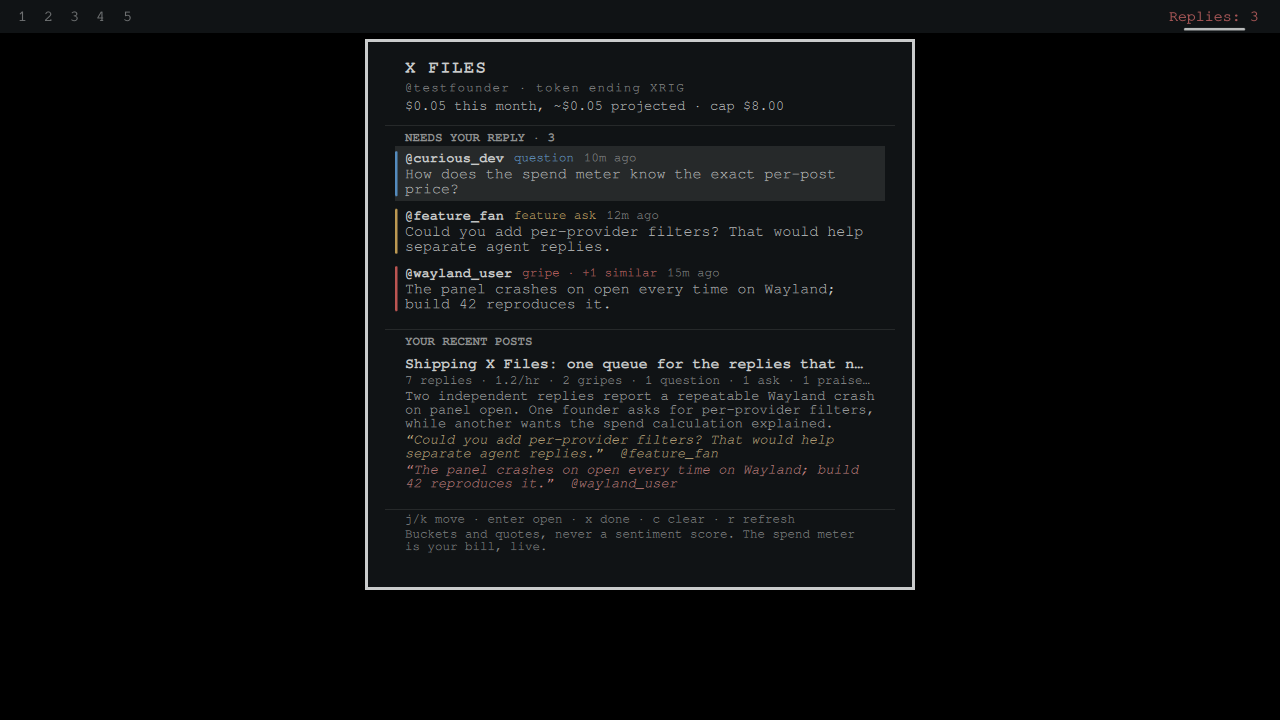
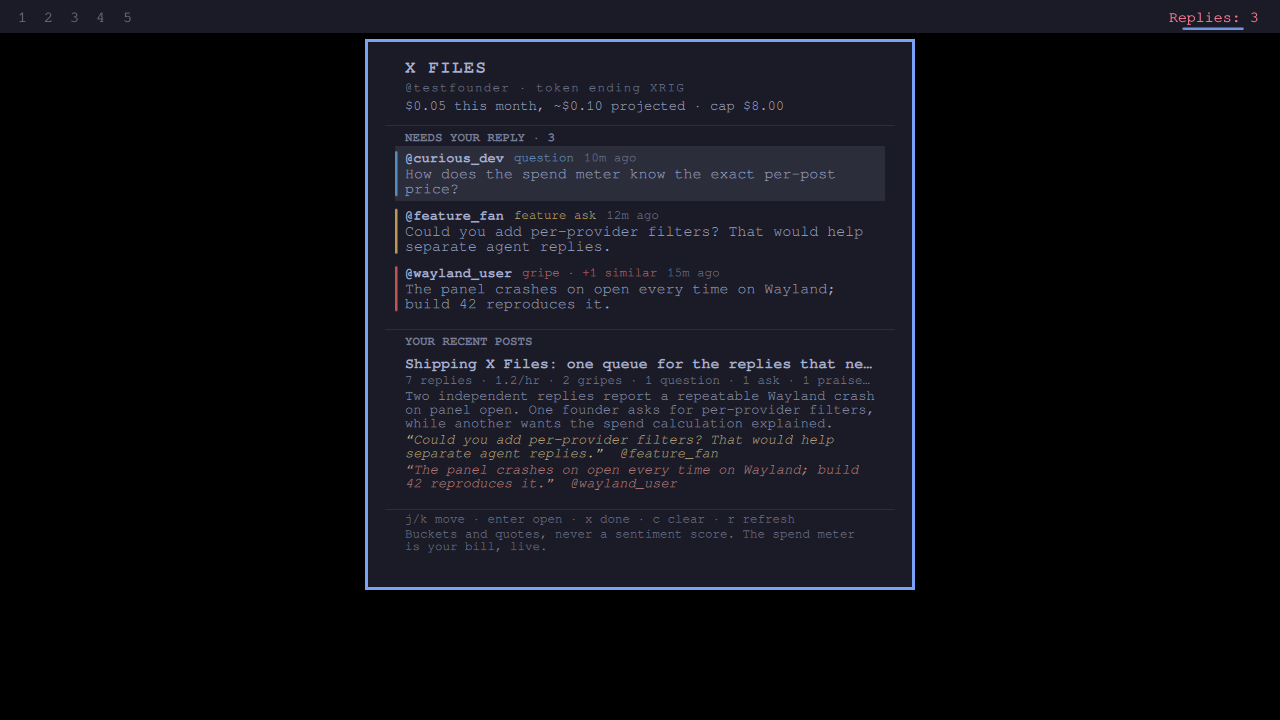
fix(theme): qualify the palette as Commons.Color for Qt 6.12; fold in Dependabot (#15)
* fix(theme): qualify the palette as Commons.Color for Qt 6.12; fold in Dependabot

Omarchy's shell contract (omacom/omarchy docs/omarchy-shell.md, Theme tokens)
now requires plugin QML to import qs.Commons with an alias and use
Commons.Color, because Qt 6.12 introduces its own Color type: "Existing
third-party plugins that use bare Color must make the same change." Arch now
ships Qt 6.12.0. Panel.qml used bare Color in 25 fallback colours; they now use Commons.Color. BarWidget.qml and Service.qml had none. A contract test fails on any bare `Color.` in the
shipped QML and requires the alias wherever Commons.Color appears.

scripts/rig-render.sh now seeds the current-theme state a real Omarchy
install has (current/theme, theme.name, background, the entries
omarchy-theme-set writes), copied from crew-chief ba0fa5b. On the upgraded
rig (Omarchy 74de104) first-party image-picker and lock read that state and
log QML warnings without it, which the render correctly refuses to certify.
Chose seeding real install state over narrowing the warning filter, because
a plugin can cause a warning inside a first-party component it uses.

Folds in the open Dependabot bumps, which failed CI only on the audit-harness
hash pin: actions/setup-node 7.0.0 -> 7.1.0 (#12); jeremylongshore/minimax-code-review to cfb2c72 (#13). The MiniMax target cfb2c72 is identical to the fork's main
per the compare API. Harness re-pinned after verify listed only
[…]

diff --git a/Panel.qml b/Panel.qml
@@ -2,6 +2,9 @@ import QtQuick
 import Quickshell
 import Quickshell.Io
 import qs.Commons
+// Qt 6.12 adds its own Color type, so Omarchy's palette singleton must be
+// qualified (docs/omarchy-shell.md, Theme tokens).
+import qs.Commons as Commons
 import qs.Ui
 import "Model.js" as Model
 
@@ -254,7 +257,7 @@ Panel {
               Text {
                 text: "X FILES"
                 textFormat: Text.PlainText
-                color: root.bar ? root.bar.foreground : Color.foreground
+                color: root.bar ? root.bar.foreground : Commons.Color.foreground
                 font.family: root.bar ? root.bar.fontFamily : Style.font.family
                 font.pixelSize: Style.font.title
                 font.bold: true
@@ -275,7 +278,7 @@ Panel {
                 width: parent.width
                 maximumLineCount: 1
                 elide: Text.ElideRight
-                color: root.bar ? Qt.darker(root.bar.foreground, 1.4) : Color.muted
+                color: root.bar ? Qt.darker(root.bar.foreground, 1.4) : Commons.Color.muted
                 font.family: root.bar ? root.bar.fontFamily : Style.font.family
                 font.pixelSize: Style.font.caption
                 font.letterSpacing: 1
@@ -300,7 +303,7 @@ Panel {
                 width: parent.width
                 maximumLineCount: 1
                 elide: Text.ElideRight
-                color: root.bar ? root.bar.foreground : Color.foreground
+                color: root.bar ? root.bar.foreground : Commons.Color.foreground
                 font.family: root.bar ? root.bar.fontFamily : Style.font.family
                 font.pixelSize: Style.font.bodySmall
               }
@@ -317,7 +320,7 @@ Panel {
                   width: parent.width
                   height: Style.space(5)
                   radius: height / 2
-                  color: root.bar ? Qt.darker(root.bar.foreground, 2.2) : Color.muted
+                  color: root.bar ? Qt.darker(root.bar.foreground, 2.2) : Commons.Color.muted
                   opacity: 0.35
 
                   Rectangle {
@@ -327,8 +330,8 @@ Panel {
                     height: parent.height
                     radius: height / 2
                     color: heroCol.spendNear
-                      ? (root.bar ? root.bar.urgent : Color.urgent)
-                      : (root.bar ? root.bar.foreground : Color.foreground)
+                      ? (root.bar ? root.bar.urgent : Commons.Color.urgent)
+                      : (root.bar ? root.bar.foreground : Commons.Color.foreground)
                   }
                 }
               }
@@ -342,7 +345,7 @@ Panel {
             anchors.horizontalCenter: parent.horizontalCenter
             height: capText.implicitHeight + Style.space(12)
             radius: Style.cornerRadius
-            color: root.bar ? root.bar.urgent : Color.urgent
+            color: root.bar ? root.bar.urgent : Commons.Color.urgent
 
             Text {
               id: capText
@@ -352,7 +355,7 @@ Panel {
               textFormat: Text.PlainText
               wrapMode: Text.WordWrap
               horizontalAlignment: Text.AlignHCenter
-              color: root.bar ? root.bar.background : Color.background
+              color: root.bar ? root.bar.background : Commons.Color.background
               font.family: root.bar ? root.bar.fontFamily : Style.font.family
               font.pixelSize: Style.font.bodySmall
               font.bold: true
@@ -365,12 +368,12 @@ Panel {
             width: parent.width
             spacing: Style.space(2)
 
-            PanelSeparator { foreground: root.bar ? root.bar.foreground : Color.foreground }
+            PanelSeparator { foreground: root.bar ? root.bar.foreground : Commons.Color.foreground }
 
             PanelSectionHeader {
               text: "NEEDS YOUR REPLY" + (root.openQueue.length > 0 ? " · " + root.openQueue.length : "")
               leftPadding: Style.space(16)
-              foreground: root.bar ? root.bar.foreground : Color.foreground
+              foreground: root.bar ? root.bar.foreground : Commons.Color.foreground
               fontFamily: root.bar ? root.bar.fontFamily : Style.font.family
             }
 
@@ -382,7 +385,7 @@ Panel {
               textFormat: Text.PlainText
               width: parent.width - Style.space(32)
               wrapMode: Text.WordWrap
-              color: root.bar ? Qt.darker(root.bar.foreground, 1.35) : Color.muted
+              color: root.bar ? Qt.darker(root.bar.foreground, 1.35) : Commons.Color.muted
               font.family: root.bar ? root.bar.fontFamily : Style.font.family
               font.pixelSize: Style.font.body
             }
@@ -404,7 +407,7 @@ Panel {
                   anchors.leftMargin: Style.space(8)
                   anchors.rightMargin: Style.space(8)
                   radius: Style.cornerRadius
-                  color: root.bar ? root.bar.foreground : Color.foreground
+                  color: root.bar ? root.bar.foreground : Commons.Color.foreground
                   opacity: 0.12
                 }
 
@@ -447,7 +450,7 @@ Panel {
                       textFormat: Text.PlainText
                       width: Math.min(implicitWidth, qCol.width * 0.4)
                       elide: Text.ElideRight
-                      color: root.bar ? root.bar.foreground : Color.foreground
+                      color: root.bar ? root.bar.foreground : Commons.Color.foreground
                       font.family: root.bar ? root.bar.fontFamily : Style.font.family
                       font.pixelSize: Style.font.bodySmall
                       font.bold: true
@@ -463,7 +466,7 @@ Panel {
                       // queue without reading every row. Noise returns -1 and
                       // stays unsaturated on purpose: it is the lane you skip.
                       color: Model.laneHue(qItem.modelData.bucket) < 0
-                        ? (root.bar ? Qt.darker(root.bar.foreground, 1.6) : Color.muted)
+                        ? (root.bar ? Qt.darker(root.bar.foreground, 1.6) : Commons.Color.muted)
                         : Qt.hsla(Model.laneHue(qItem.modelData.bucket), 0.55, 0.62, 1.0)
                       font.family: root.bar ? root.bar.fontFamily : Style.font.family
                       font.pixelSize: Style.font.caption
@@ -473,7 +476,7 @@ Panel {
                       textFormat: Text.PlainText
                       width: Math.min(implicitWidth, qCol.width * 0.3)
                       elide: Text.ElideRight
-                      color: root.bar ? Qt.darker(root.bar.foreground, 1.45) : Color.muted
+                      color: root.bar ? Qt.darker(root.bar.foreground, 1.45) : Commons.Color.muted
                       font.family: root.bar ? root.bar.fontFamily : Style.font.family
                       font.pixelSize: Style.font.caption
                     }
@@ -486,7 +489,7 @@ Panel {
                     wrapMode: Text.WordWrap
                     maximumLineCount: 2
                     elide: Text.ElideRight
-                    color: root.bar ? root.bar.foreground : Color.foreground
+                    color: root.bar ? root.bar.foreground : Commons.Color.foreground
                     font.family: root.bar ? root.bar.fontFamily : Style.font.family
                     font.pixelSize: Style.font.body
                   }
@@ -501,12 +504,12 @@ Panel {
             width: parent.width
             spacing: Style.space(2)
 
-            PanelSeparator { foreground: root.bar ? root.bar.foreground : Color.foreground }
+            PanelSeparator { foreground: root.bar ? root.bar.foreground : Commons.Color.foreground }
 
             PanelSectionHeader {
               text: "YOUR RECENT POSTS"
               leftPadding: Style.space(16)
-              foreground: root.bar ? root.bar.foreground : Color.foreground
+              foreground: root.bar ? root.bar.foreground : Commons.Color.foreground
               fontFamily: root.bar ? root.bar.fontFamily : Style.font.family
             }
 
@@ -534,7 +537,7 @@ Panel {
                     wrapMode: Text.WordWrap
                     maximumLineCount: 1
                     elide: Text.ElideRight
-                    color: root.bar ? root.bar.foreground : Color.foreground
+                    color: root.bar ? root.bar.foreground : Commons.Color.foreground
                     font.family: root.bar ? root.bar.fontFamily : Style.font.family
                     font.pixelSize: Style.font.body
                     font.bold: true
@@ -548,7 +551,7 @@ Panel {
                     width: parent.width
                     maximumLineCount: 1
                     elide: Text.ElideRight
-                    color: root.bar ? Qt.darker(root.bar.foreground, 1.35) : Color.muted
+                    color: root.bar ? Qt.darker(root.bar.foreground, 1.35) : Commons.Color.muted
                     font.family: root.bar ? root.bar.fontFamily : Style.font.family
                     font.pixelSize: Style.font.caption
                   }
@@ -561,7 +564,7 @@ Panel {
                     text: modelData.summary
                     textFormat: Text.PlainText
                     wrapMode: Text.WordWrap
-                    color: root.bar ? Qt.darker(root.bar.foreground, 1.15) : Color.muted
+                    color: root.bar ? Qt.darker(root.bar.foreground, 1.15) : Commons.Color.muted
                     font.family: root.bar ? root.bar.fontFamily : Style.font.family
                     font.pixelSize: Style.font.bodySmall
                   }
@@ -580,7 +583,7 @@ Panel {
                       textFormat: Text.PlainText
                       wrapMode: Text.WordWrap
                       color: Model.laneHue(modelData.bucket) < 0
-                        ? (root.bar ? Qt.darker(root.bar.foreground, 1.25) : Color.muted)
+                        ? (root.bar ? Qt.darker(root.bar.foreground, 1.25) : Commons.Color.muted)
                         : Qt.hsla(Model.laneHue(modelData.bucket), 0.42, 0.66, 1.0)
                       font.family: root.bar ? root.bar.fontFamily : Style.font.family
                       font.pixelSize: Style.font.bodySmall
@@ -597,7 +600,7 @@ Panel {
             width: parent.width
             spacing: Style.space(2)
 
-            PanelSeparator { foreground: root.bar ? root.bar.foreground : Color.foreground }
+            PanelSeparator { foreground: root.bar ? root.bar.foreground : Commons.Color.foreground }
 
             Text {
               anchors.left: parent.left
@@ -606,7 +609,7 @@ Panel {
               textFormat: Text.PlainText
               width: parent.width - Style.space(32)
               wrapMode: Text.WordWrap
-              color: root.bar ? Qt.darker(root.bar.foreground, 1.45) : Color.muted
+              color: root.bar ? Qt.darker(root.bar.foreground, 1.45) : Commons.Color.muted
               font.family: root.bar ? root.bar.fontFamily : Style.font.family
               font.pixelSize: Style.font.caption
             }
@@ -618,7 +621,7 @@ Panel {
               textFormat: Text.PlainText
               width: parent.width - Style.space(32)
               wrapMode: Text.WordWrap
-              color: root.bar ? Qt.darker(root.bar.foreground, 1.45) : Color.muted
+              color: root.bar ? Qt.darker(root.bar.foreground, 1.45) : Commons.Color.muted
               font.family: root.bar ? root.bar.fontFamily : Style.font.family
               font.pixelSize: Style.font.caption
             }

diff --git a/tests/contract.test.js b/tests/contract.test.js
@@ -107,3 +107,15 @@ test("mutation gate holds a 90 percent floor over named decision cores", () => {
   assert.match(lines[999], /^  return queue\.slice\(0, MAX_QUEUE\)$/)
   assert.match(read("contracts/mutation-scope.md"), /plausible-looking regression/)
 })
+
+test("QML qualifies Omarchy's palette as Commons.Color, never bare Color", () => {
+  // Qt 6.12 introduces its own Color type; omarchy docs/omarchy-shell.md
+  // (Theme tokens) requires plugins to import qs.Commons with an alias.
+  const files = fs.readdirSync(root).filter(name => name.endsWith(".qml"))
+  assert.ok(files.length > 0)
+  for (const file of files) {
+    const source = fs.readFileSync(path.join(root, file), "utf8")
+    assert.doesNotMatch(source, /(^|[^\w.])Color\./m, file + " uses bare Color")
+    if (/Commons\.Color\./.test(source)) assert.match(source, /^import qs\.Commons as Commons$/m, file)
+  }
+})

diff --git a/CHANGELOG.md b/CHANGELOG.md
@@ -12,6 +12,22 @@ Regenerate with `scripts/gen-changelog.sh`.
 
 Nothing yet.
 
+## [1.0.1] - 2026-11-15
+
+### Fixed
+
+- Qualify Omarchy's palette as `Commons.Color`, as the shell contract requires
+  now that Qt 6.12 has its own `Color` type. A contract test fails on any bare
+  `Color.` in the shipped QML.
+
+### Changed
+
+- Seed the rig render's isolated home with the current-theme state a real
+  Omarchy install has, so first-party shell plugins on current Omarchy do not
+  log warnings the render would read as plugin warnings.
+- Bump `actions/setup-node` to 7.1.0 and the MiniMax review action to the
+  fork's current main (`cfb2c72`), with the audit harness re-pinned.
+
 ## [1.0.0] - 2026-08-22
 
 ### Security
